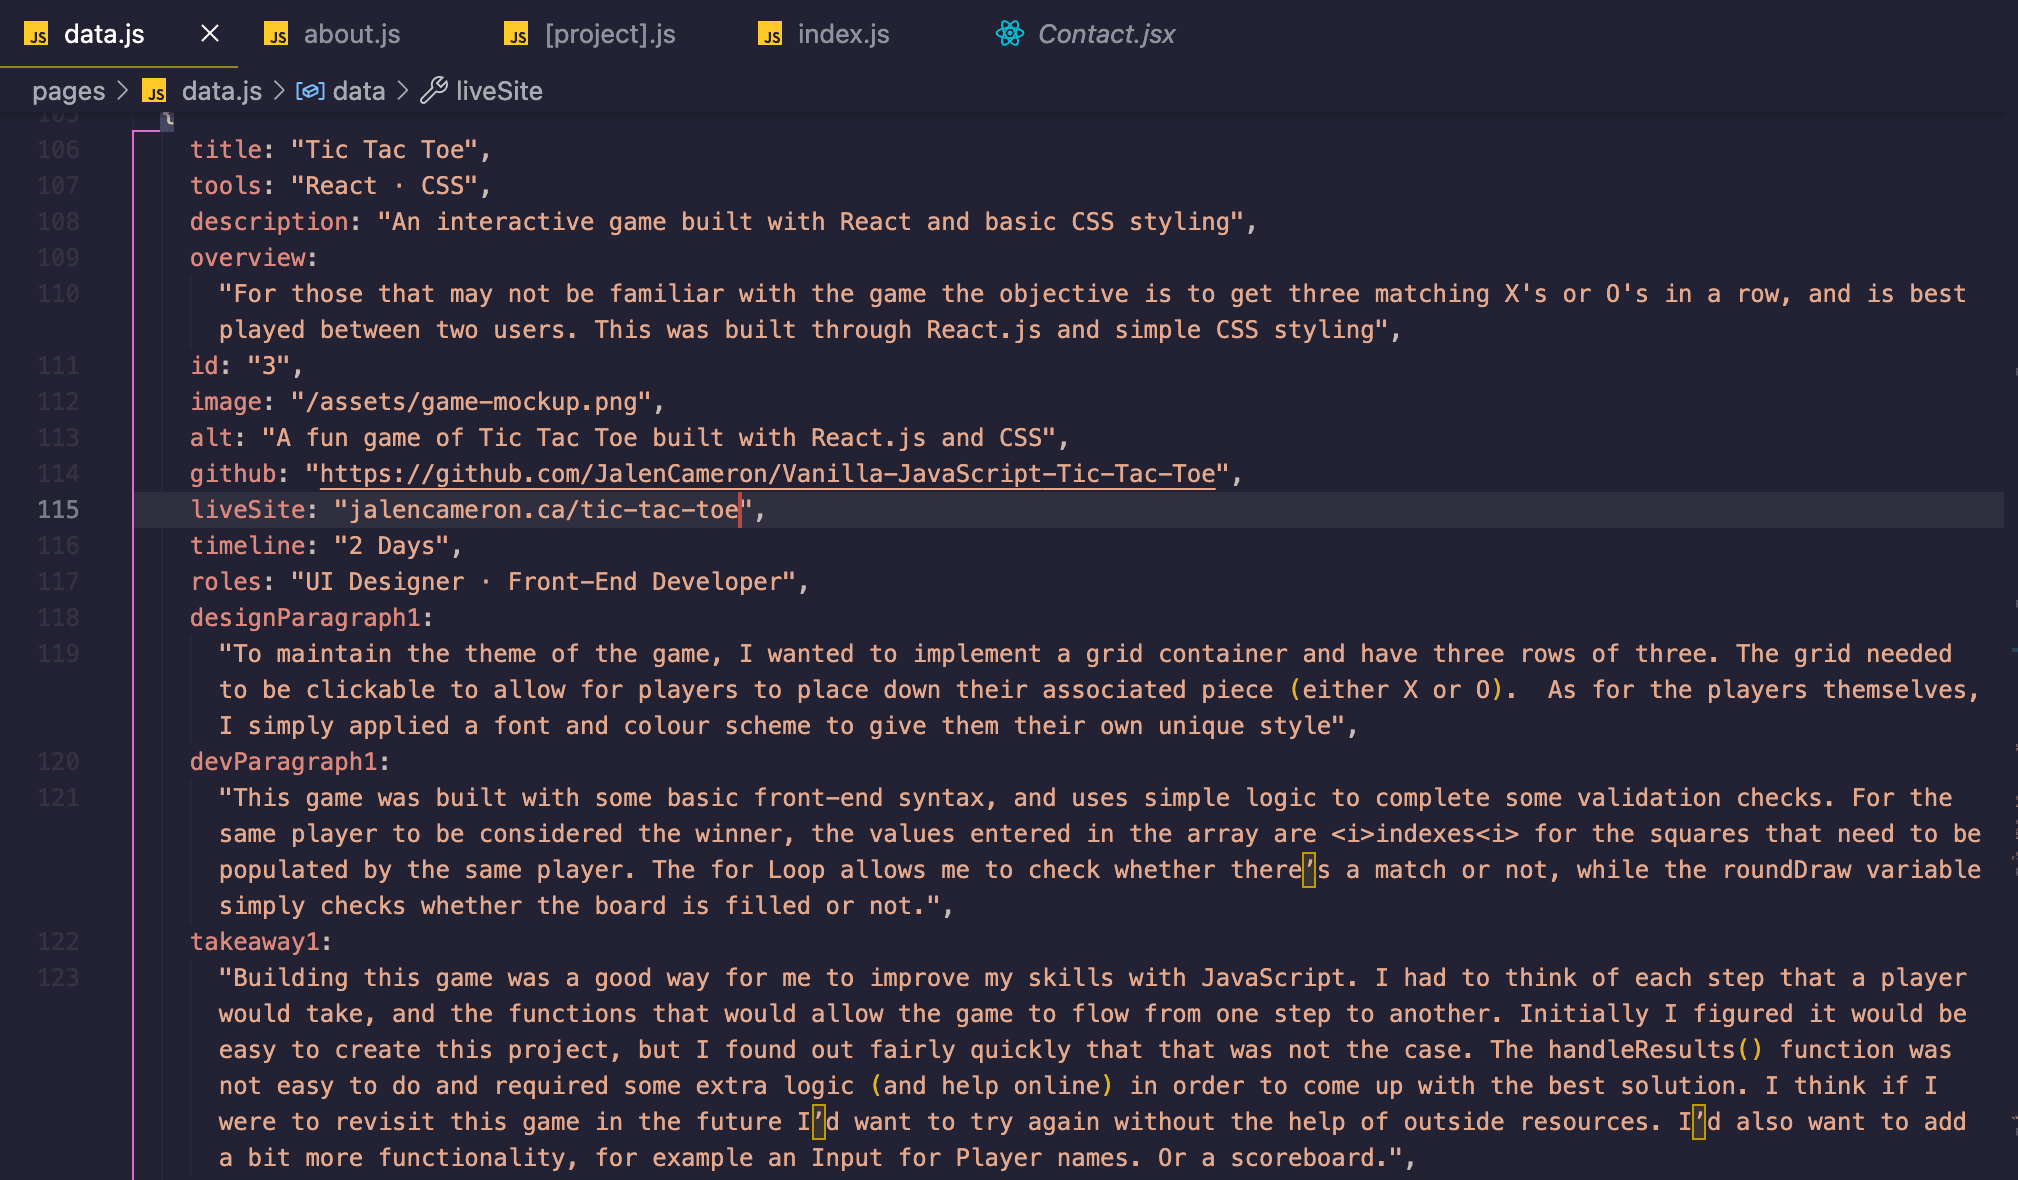
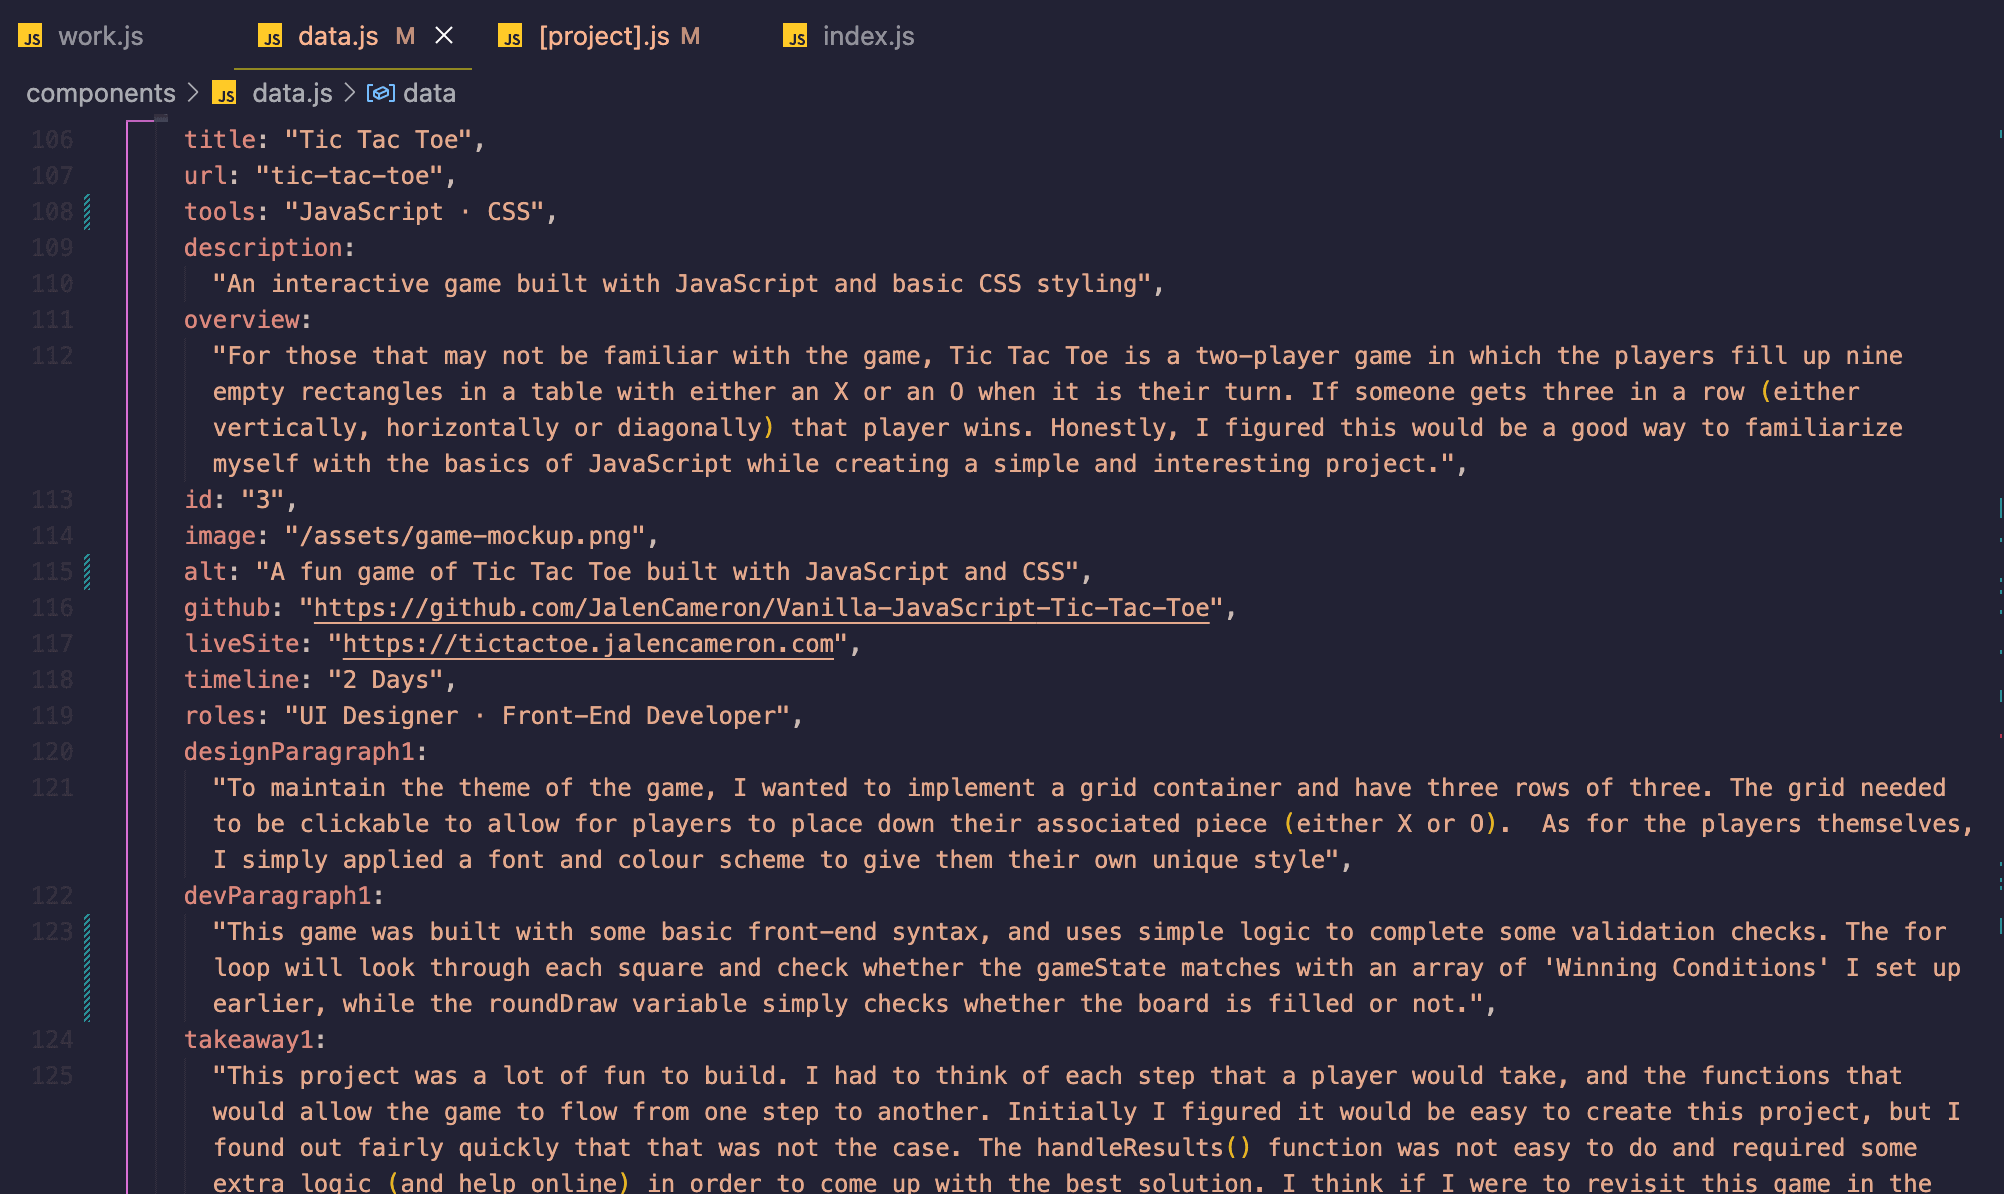
Updated some information on each individual project. Will now walk my dog

Changed region(s): [[0.0, 0.0, 0.99, 1.0], [0.3713, 0.0, 0.4641, 0.061], [0.495, 0.0, 0.5569, 0.061]]

diff --git a/components/data.js b/components/data.js
@@ -15,7 +15,7 @@ export const data = [
     timeline: "5 Weeks",
     roles: "UI Designer · Developer · Debugger",
     designParagraph1:
-      "These mockups were created using Adobe Photoshop and XD, keeping a mobile-first approach in mind. I wanted to maintain well documented folder groups as well to show UI changes in response to various user interactions",
+      "The mockups for this project were created using Adobe Photoshop and XD, keeping a mobile-first approach in mind. I decided to maintain well documented folder groups to show UI changes in response to various user interactions",
     designParagraph2:
       "As for the design of this project, I approached it with the idea that I wanted a clean and uncluttered interface that only displays the movie poster at first. Hovering over the poster itself on Desktop would provide some movie information, while clicking on the poster would take you to the individual movie page with additional info.",
     devParagraph1:
@@ -82,13 +82,13 @@ export const data = [
     devParagraph1:
       "After creating the Movie Database Project I wanted to explore making API calls on my own. This project in particular was created following a tutorial online, although I did modify the code to make it my own. To start, it did involve researching some of the terms used and the syntax involved. This allowed me to understand what I was writing out, and where I could look for improvements. For instance, I wrote out a conditional statement to change the background depending on which weather icon was displayed, and I also applied those same principles towards displaying a greeting when there was no information currently rendered.",
     takeaway1:
-      "This was a very fun project to bring to life, and it was also a great way for me to familiarize myself with Next.js and Tailwind. I was able to practice how to access data from props (which was initially a tricky concept for me to grasp having had very limited knowledge of React prior to this project). I actually found out that using Axios to make HTTP requests was more useful than just a regular Fetch API. It was a lot less work writing out .get() or .then(), and there was no need to convert my request to a JSON string either. I was also able to get a handle on the syntax for a new styling framework called Tailwind. ",
+      "This was a very fun project to bring to life, and it was also a great way for me to familiarize myself with Next.js and Tailwind. I was able to practice how to access data from props (which was initially a tricky concept for me to grasp, and still could be going forward haha). I actually found out that using Axios to make HTTP requests was more useful than just a regular Fetch API. It was a lot less work writing out .get() or .then(), and there was no need to convert my request to a JSON string either. I was also able to get a handle on the syntax for a new styling framework called Tailwind.",
     designImage1: "/assets/weather-bg.png",
     desAlt1:
       "A dynamic background is generated depending on the Weather Code provided when you search for a city",
     takeawayImage: "/assets/weather-axios.png",
     takeawayAlt: "Making use of axios instead of a regular Fetch API",
-    codeblock: `if(weather.weather[0].id >= 200 && weather.weather[0].id <= 232) {
+    codeblock: `if (weather.weather[0].id >= 200 && weather.weather[0].id <= 232) {
     // If the weather indicates that it's a thunderstorm:
     return (
         <Image
@@ -97,22 +97,22 @@ export const data = [
             layout="fill"
             className="object-cover"
         />
-    )
+      )
     }`,
     figcaption:
-      "A conditional statement to display a certain background image depending on weather conditions",
+      "Here is a conditional statement to display a certain background image depending on the weather conditions",
   },
   {
     title: "Tic Tac Toe",
     url: "tic-tac-toe",
-    tools: "React · CSS",
+    tools: "JavaScript · CSS",
     description:
       "An interactive game built with JavaScript and basic CSS styling",
     overview:
       "For those that may not be familiar with the game, Tic Tac Toe is a two-player game in which the players fill up nine empty rectangles in a table with either an X or an O when it is their turn. If someone gets three in a row (either vertically, horizontally or diagonally) that player wins. Honestly, I figured this would be a good way to familiarize myself with the basics of JavaScript while creating a simple and interesting project.",
     id: "3",
     image: "/assets/game-mockup.png",
-    alt: "A fun game of Tic Tac Toe built with React.js and CSS",
+    alt: "A fun game of Tic Tac Toe built with JavaScript and CSS",
     github: "https://github.com/JalenCameron/Vanilla-JavaScript-Tic-Tac-Toe",
     liveSite: "https://tictactoe.jalencameron.com",
     timeline: "2 Days",
@@ -120,13 +120,11 @@ export const data = [
     designParagraph1:
       "To maintain the theme of the game, I wanted to implement a grid container and have three rows of three. The grid needed to be clickable to allow for players to place down their associated piece (either X or O).  As for the players themselves, I simply applied a font and colour scheme to give them their own unique style",
     devParagraph1:
-      "This game was built with some basic front-end syntax, and uses simple logic to complete some validation checks. The For Loop will look through each square and check whether the gameState matches with an array of Winning Conditions I set up ealier, while the roundDraw variable simply checks whether the board is filled or not.",
+      "This game was built with some basic front-end syntax, and uses simple logic to complete some validation checks. The for loop will look through each square and check whether the gameState matches with an array of 'Winning Conditions' I set up earlier, while the roundDraw variable simply checks whether the board is filled or not.",
     takeaway1:
       "This project was a lot of fun to build. I had to think of each step that a player would take, and the functions that would allow the game to flow from one step to another. Initially I figured it would be easy to create this project, but I found out fairly quickly that that was not the case. The handleResults() function was not easy to do and required some extra logic (and help online) in order to come up with the best solution. I think if I were to revisit this game in the future I’d want to try again without the help of outside resources. I’d also want to add a bit more functionality, for example an Input for Player names. Or a scoreboard.",
     designImage1: "/assets/game-grid.png",
     desAlt1: "A photo displaying the grid and styling I used for the game",
-    devImage1: "",
-    devAlt1: "",
     codeblock: `function handleResults() {
   let roundWon = false;
   for (let i = 0; i <= 7; i++) {
@@ -158,20 +156,20 @@ export const data = [
   }
 }`,
     figcaption:
-      "A function that checks if there are 3 matches across the board",
+      "Here my function is checking if there are 3 matches across the board, and if not then it checks for a potential tie",
   },
   {
     danial:
-      "Thanks for all your help Danial! Wish you all the best in the future!",
+      "Thanks for all your help Danial! Wishing you all the best in the future buddy!",
     reilly:
-      "Reilly! Thanks for helping me out with my designs, you're a rockstar!",
+      "Reilly! Thanks for helping me out with my designs, you're a rockstar and a great friend!",
     title: "Portfolio Project",
     url: "portfolio",
     tools: "Next · Tailwind · Figma",
     description:
       "A portfolio website that was designed and developed as a platform to showcase my skills in UI/UX Design and Front-End Web Development.",
     overview:
-      "My portfolio was created with the intention to showcase my work as a developer so far. Utilizing an agile approach, I continuously implemented and revised my designs and some development features. I took it upon myself to study Next.js (and coupled that with Tailwind CSS) to build this site, with the intention that it would allow for future expansion and greater interactivity.",
+      "My portfolio was created with the intention to showcase my work as a developer so far. Utilizing an agile approach, I continuously implemented and revised my designs and updated development features. I took it upon myself to study Next.js (and coupled that with Tailwind CSS) to build this site, with the intention that it would allow for future expansion and greater interactivity.",
     id: "4",
     image: "/assets/portfolio-mockup.png",
     alt: "Jalen Cameron's Portfolio Project",
@@ -203,7 +201,7 @@ export const data = [
     Get in Touch.
 </h2>`,
     figcaption:
-      "Utilizing Tailwind CSS in the header to generate a left-sided border and proper font-sizing",
+      "Here I'm utilizing Tailwind CSS in the header to generate a left-sided border and proper font-sizing all within the element itself",
   },
   {
     title: "Summer Panda Cafe",

diff --git a/pages/[project].js b/pages/[project].js
@@ -300,9 +300,9 @@ function Project(props) {
                 Contact Me Here
               </a>
             </Link>
-            <Link href="./works">
+            <Link href="./work">
               <a className="mb-6 w-full border border-solid border-[#7f96bb] p-4 text-center hover:bg-[#7f96bb] hover:text-[#f1f3f4]">
-                View my other works
+                View my other work
               </a>
             </Link>
           </div>
